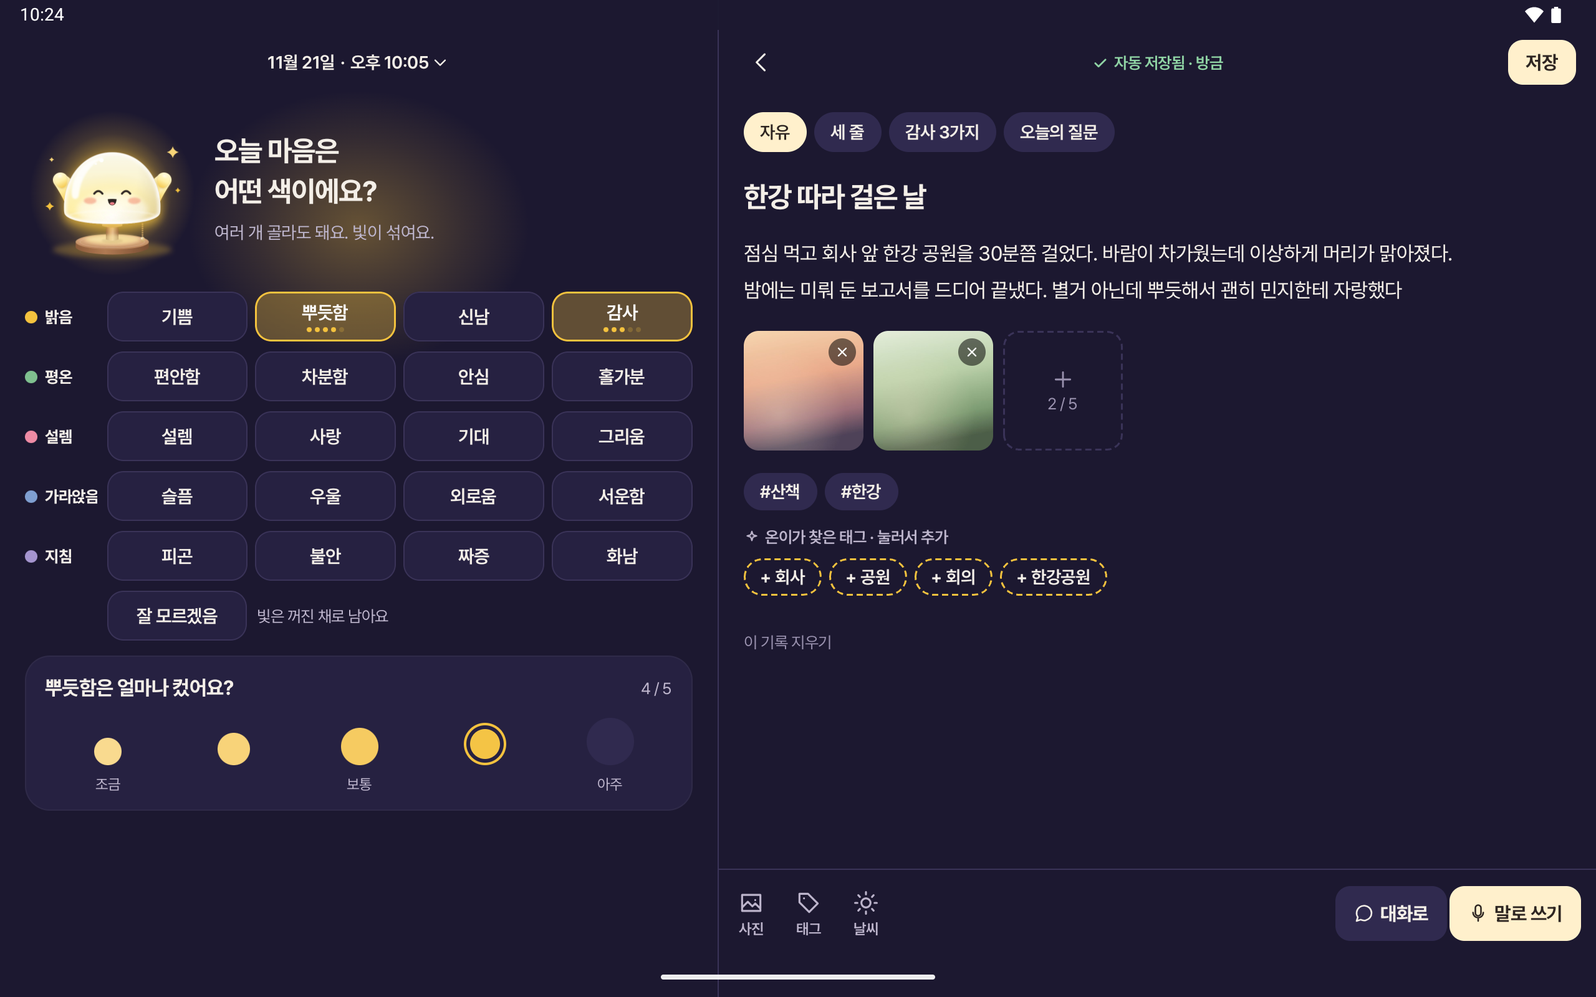
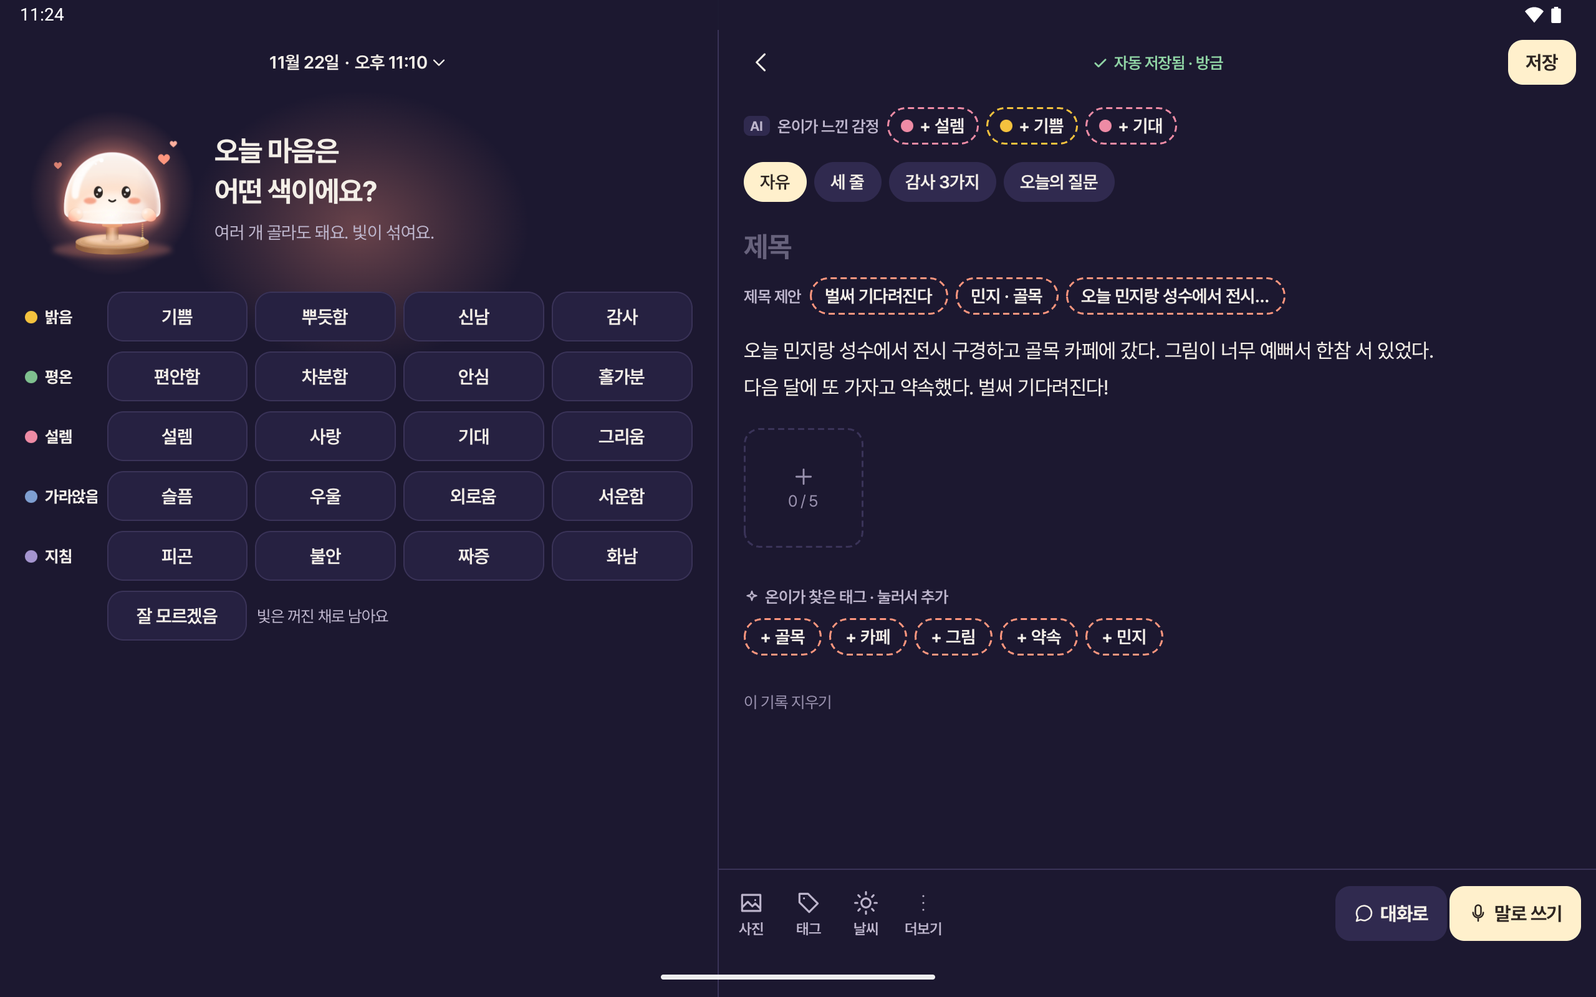
스토어 자료를 v2 새 AI 기능 기준으로 다시 만들기
- 휴대전화 스크린샷 8장·태블릿 4장 재구성·재촬영: 쓰는 동안 빛(E1), 문장 밑줄·비슷했던 날, 주간 온이 편지, 뜻으로 찾기, 이번 달의 한 줄·감정 원인, 종이 일기 옮기기
- 그래픽 이미지 문구: '온이(AI)가 답장해 주는' 제거 → '쓰는 동안 마음의 색을 읽어 주는 AI 감정일기'
- listing.md: 짧은 설명·자세한 설명·업데이트 소식·스크린샷 표·촬영 메모 갱신, PDF 일기책은 다음 업데이트로 표기
- make_store.py: 장마다 실제 캡처 카드를 얹는 floats 칸
- 디버그 시드 초안 문장에서 '전시 보고'를 빼서 태그 추천에 '회의'가 섞이지 않게

diff --git a/app/src/debug/kotlin/com/pass/diary/DebugSeed.kt b/app/src/debug/kotlin/com/pass/diary/DebugSeed.kt
@@ -196,7 +196,7 @@ class DebugSeedReceiver : BroadcastReceiver() {
             "oni" to "머리가 맑아지니까 일이 풀린 거네. 그 보고서, 결국 어떻게 됐어?",
         ).forEachIndexed { i, (role, text) -> chat.insert(com.pass.diary.core.data.db.ChatMessageEntity(entryId = "seed-today-3", role = role, text = text, at = i.toLong())) }
         // An untitled draft with no feeling picked: write:seed-draft shows the light following the text and title chips.
-        if (withToday) put(today, "23:10", emptyList(), body = "오늘 민지랑 성수에서 전시 보고 카페 갔다. 사람은 많았는데 그림이 너무 예뻐서 계속 사진 찍었다.\n" +
+        if (withToday) put(today, "23:10", emptyList(), body = "오늘 민지랑 성수에서 전시 구경하고 골목 카페에 갔다. 그림이 너무 예뻐서 한참 서 있었다.\n" +
             "다음 달에 또 가자고 약속했다. 벌써 기다려진다!", id = "seed-draft")
         if (crisis) put(today.minusDays(1), "23:50", listOf(e(DOWN, 5)), body = "요즘 너무 힘들다. 그냥 다 그만두고 죽고 싶다는 생각이 든다.", id = "seed-crisis")
         android.util.Log.i("DebugSeed", "seeded $n entries")

diff --git a/store/make_store.py b/store/make_store.py
@@ -68,23 +68,29 @@ SHOT_CSS = """
   color:#F4EFE8;background:rgba(28,24,48,.82);box-shadow:0 0 0 1px rgba(255,255,255,.1) inset,0 8px 24px rgba(0,0,0,.35);backdrop-filter:blur(6px)}
 """
 
-# (capture, eyebrow, glow, headline, sub, note)
+# (capture, eyebrow, glow, headline, sub, note, floats). AI eyebrows only on screens where a model does the work (AI_GROWTH §1).
+# A float is a real crop from captures/ laid over the phone: (capture, left, top, width, rotate_deg), CSS px on the 540x960 page.
 SHOTS = [
-    ('phone_01_today', '오늘', '#F5A957', '기분이 빛이 되는 일기장', '무드등 온이가 오늘 마음의 색으로 켜져요', None),
-    ('phone_02_widgets', '1탭 기분', '#EE8BA5', '톡 한 번이면 기록 끝', '홈 화면 위젯에서 1초 만에 남겨요', None),
-    ('phone_03_emotions', '감정 + 강도', '#F4C23E', '마음은 한 가지가 아니니까', '감정 20가지를 골라 강도까지, 빛이 섞여요', None),
-    ('phone_04_reply', '온이의 답장', '#F4C23E', '온이가 답장을 써 줘요', '일기는 폰 안의 AI만 읽어요, 서버 전송 없이', None),
-    ('phone_05_calendar', '무드 캘린더', '#7FC08F', '한 달이 빛으로 물들어요', '날짜마다 그날의 빛, 하루의 흐름까지', None),
-    ('phone_06_report', '리포트', '#7FC08F', '내 마음의 패턴을 알아요', '자주 느낀 감정부터 기분을 바꾼 활동까지', None),
-    ('phone_07_chat', '대화로 쓰기', '#A595CF', '말하듯 쓰는 일기', '온이가 묻고 내가 답하면 한 편의 일기로', None),
-    ('phone_08_lock', '잠금 · 백업', '#F5A957', '내 일기는 나만 봐요', 'PIN·지문 잠금, 내 Google 드라이브에 자동 백업', None),
+    ('phone_01_today', '무드등 온이', '#F5A957', '기분이 빛이 되는 일기장', '글에서 AI가 마음의 색을 읽고, 온이가 그 빛으로 켜져요', None, []),
+    ('phone_02_write', 'AI · 쓰는 동안', '#EE8BA5', '쓰는 동안 빛이 변해요', 'AI가 글에서 마음의 색을 읽고 감정·제목을 추천해요',
+     '감정 AI는 폰 안에서만 돌아요', [('phone_02_ai_row', 22, 652, 496, 0)]),
+    ('phone_03_view', 'AI · 문장 밑줄 · 비슷했던 날', '#7FC08F', '그때는 이렇게 지나갔어', '감정이 진한 문장엔 빛 밑줄, 결이 비슷한 날을 찾아 줘요', None, []),
+    ('phone_04_letter', '주간 온이 편지', '#A595CF', '일요일 밤, 온이의 편지', '이번 주의 빛과 자주 느낀 감정을 편지로 받아요', None, []),
+    ('phone_05_calendar', '무드 캘린더 · AI 검색', '#7FC08F', '한 달이 빛으로 물들어요', '단어가 달라도 뜻이 비슷한 일기를 찾아요',
+     None, [('phone_05_search_card', 46, 612, 448, 0)]),
+    ('phone_06_report', '월간 리포트', '#F4C23E', '내 마음의 패턴을 알아요', 'AI가 고른 이번 달의 한 줄, 기분이 달라진 흐름까지',
+     None, [('phone_06_causes_card', 50, 626, 440, 0)]),
+    ('phone_07_scan', 'AI · 종이 일기 옮기기', '#F5A957', '종이 일기도 옮겨 와요', '찍으면 한국어 글자로 옮기고, 고친 뒤 넣어요',
+     None, [('phone_07_scan_page', 92, 600, 356, -3)]),
+    ('phone_08_lock', '잠금 · 백업', '#F5A957', '내 일기는 나만 봐요', 'PIN·지문 잠금, 내 Google 드라이브에 자동 백업',
+     None, [('phone_08_backup_card', 34, 822, 472, 0)]),
 ]
 
 TABLET = [
     ('tablet_01_today', '오늘', '#F5A957', '넓은 화면에서도 온이와 함께', '오늘의 빛, 하루의 흐름, 1년 전 오늘까지 한눈에'),
-    ('tablet_02_calendar', '무드 캘린더', '#EE8BA5', '달력 옆에 그날의 이야기', '날짜를 누르면 일기와 답장이 바로 옆에 펼쳐져요'),
-    ('tablet_03_report', '리포트', '#7FC08F', '내 마음의 패턴을 한 화면에', '자주 느낀 감정, 기분을 바꾼 활동, 요일·시간대'),
-    ('tablet_04_write', '쓰기', '#F4C23E', '감정과 글을 나란히', '왼쪽에서 마음의 색을 고르고, 오른쪽에 하루를 적어요'),
+    ('tablet_02_calendar', '무드 캘린더', '#EE8BA5', '달력 옆에 그날의 이야기', '날짜를 누르면 일기와 온이의 한마디가 바로 옆에 펼쳐져요'),
+    ('tablet_03_report', '리포트', '#7FC08F', '내 마음의 패턴을 한 화면에', 'AI가 고른 이번 달의 한 줄, 감정 원인, 자주 나온 이야기'),
+    ('tablet_04_write', 'AI · 쓰기', '#EE8BA5', '쓰는 동안 빛이 변해요', '글에 비친 마음의 색으로 온이가 물들고, AI가 감정·제목·태그를 추천해요'),
 ]
 
 
@@ -92,13 +98,12 @@ def cap(name):
     return (CAPS / f'{name}.png').as_uri()
 
 
-def shot_html(name, eb, glow, hd, sub, note):
+def shot_html(name, eb, glow, hd, sub, note, floats):
     pools = (f'<div class="pool" style="left:-60px;top:330px;width:660px;height:560px;background:{hx(glow, .30)}"></div>'
              f'<div class="pool" style="left:150px;top:150px;width:240px;height:200px;background:{hx(glow, .16)}"></div>'
              f'<div class="pool" style="left:-120px;top:880px;width:780px;height:220px;background:{hx("#F5A957", .10)}"></div>')
-    extra = ''
-    if name == 'phone_08_lock':  # 잠금 + the 마이 › 자동 백업 card floating over it
-        extra = f'<img class="float" src="{cap("phone_08_backup_card")}" style="left:34px;top:740px;width:472px;border-radius:26px">'
+    extra = ''.join(f'<img class="float" src="{cap(f)}" style="left:{x}px;top:{y}px;width:{w}px;border-radius:22px;transform:rotate({r}deg)">'
+                    for f, x, y, w, r in floats)
     nt = f'<div class="note"><span>{note}</span></div>' if note else ''
     body = (f'<div class="room"></div>{pools}<div class="grain"></div>'
             f'<div class="cap"><div class="eb"><i style="background:{glow};box-shadow:0 0 10px {glow}"></i>{eb}</div>'
@@ -159,7 +164,7 @@ def feature_html():
             f'<div class="grain"></div>{orbs}<img class="oni" src="{oni}">'
             f'<div class="copy"><div class="brand"><img src="{icon}">온이 일기</div>'
             '<div class="t">오늘 기분,<br><b>무슨 색</b>이었어요?</div>'
-            '<div class="v">탭 한 번에 기분이 빛으로 켜지고<br>온이(AI)가 답장해 주는 감정일기</div></div>')
+            '<div class="v">쓰는 동안 마음의 색을 읽어 주는<br>AI 감정일기</div></div>')
     return page(1024, 500, body, FG_CSS, blur=50)
 
 

diff --git a/store/listing.md b/store/listing.md
@@ -12,41 +12,59 @@
   - 이모티콘
 - 키워드를 반복해서 넣지 않는다.
 
-## 짧은 설명 (80자 이내)
+## 짧은 설명 (80자 이내, 46자)
 
-탭 한 번이면 오늘 기분이 빛으로 켜져요. 온이가 따뜻한 한마디를 건네는 감정일기·음성일기
+쓰는 동안 AI가 마음의 색을 읽어요. 무드등 온이와 함께 쓰는 감정일기·무드트래커
 
-## 자세한 설명 (초안)
+## 자세한 설명 (4000자 이내, 1728자)
 
 오늘 기분, 무슨 색이었어요?
-탭 한 번이면 무드등 「온이」가 그 색으로 켜져요. 쓰고 싶은 날엔 길게, 바쁜 날엔 1초 만에. 온이가 당신의 하루에 맞춰 따뜻한 한마디를 남겨 줘요.
+온이 일기는 기분이 빛이 되는 일기장이자 무드트래커예요. 일기를 쓰는 동안 AI가 글에서 마음의 색을 읽고, 무드등 「온이」가 그 빛으로 켜져요. 쓰고 싶은 날엔 길게, 바쁜 날엔 탭 한 번으로 남겨요.
+
+■ 쓰는 동안 마음을 읽는 감정 AI
+- 쓰는 동안 빛이 변해요: 입력을 멈추면 AI가 글을 읽고 온이의 빛을 그 감정의 색으로 바꿔요.
+- 감정·제목·태그 추천: 글에 맞는 감정과 제목, 사람·장소·활동 태그를 제안해요. 고르는 건 언제나 나예요.
+- 문장 밑줄: 일기를 다시 읽을 때 감정이 진한 문장에 그 감정의 빛 색으로 밑줄을 그어요.
+- 비슷했던 날: 결이 비슷한 지난 일기를 찾아 "그때는 이렇게 지나갔어"를 보여 줘요.
+- 뜻으로 찾기: 단어가 달라도 뜻이 비슷한 일기를 찾아요.
+- 감정 AI는 폰 안에서 돌아요. 일기 내용을 AI 서버로 보내지 않고, 따로 큰 파일을 내려받지 않아도 돼요.
+
+■ 사진·글자 AI
+- 종이 일기 옮기기: 노트에 쓴 일기를 찍으면 한국어 글자로 옮겨 줘요. 확인하고 고친 뒤 넣어요.
+- 사진 자동 태그: 사진 속 바다, 고양이, 음식 같은 것을 알아보고 태그를 제안해요.
+- 사진 스티커: 사진에서 사람이나 물건만 오려 일기에 붙여요.
+- 손글씨로 쓰기: 태블릿과 펜으로 쓴 글씨를 글자로 바꿔요. 한국어 손글씨 모델은 켤 때 한 번 내려받아요.
 
 ■ 1초 기분 기록
 - 홈 화면이나 위젯에서 기분을 톡 누르면 바로 저장돼요.
-- 감정 20가지 + "잘 모르겠음". 여러 감정을 골라 강도까지 남기면 빛이 섞여요.
-- 하루에 여러 번 기록하면 "하루의 빛"으로 마음의 흐름을 볼 수 있어요.
-
-■ 온이의 한마디
-- 일기를 저장하면 온이가 내 이야기에 맞는 한마디를 건네요.
-- 말로 쓰는 일기: 말하면 그대로 받아 적어 줘요.
-- 대화로 쓰는 일기: 온이가 묻고 내가 답하면 한 편의 일기가 돼요.
-- 감정 추천 AI는 폰 안에서만 돌아요. 일기 내용을 AI 서버로 보내지 않아요.
-- 따로 내려받는 것 없이 설치하면 바로 돼요.
+- 감정 20가지와 "잘 모르겠음". 여러 감정을 강도와 함께 고르면 빛이 섞여요.
+- 말로 쓰기, 준비된 질문에 답하며 쓰는 대화로 쓰기도 있어요.
+- 일기를 저장하면 온이가 내 이야기에 맞춰 준비해 둔 한마디를 건네요.
 
 ■ 빛으로 보는 내 마음
-- 무드 캘린더: 날짜 칸이 그날의 빛으로 물들어요.
-- 주간·월간 리포트: 자주 느낀 감정, 요일·시간대 패턴, "산책한 날 더 평온했어요" 같은 감정과 활동의 관계를 보여 줘요.
-- 올해의 빛: 365일의 빛을 한 장의 카드로 모아 공유해요.
+- 무드 캘린더: 날짜 칸이 그날의 빛으로 물들고, 하루에 여러 번 쓴 날은 "하루의 빛"으로 흐름을 보여 줘요.
+- 월간 리포트: AI가 고른 "이번 달의 한 줄", 자주 느낀 감정, 요일·시간대 패턴, 자주 나온 이야기를 보여 줘요.
+- 감정 원인 찾기: "야근한 날 지침", "산책한 날 평온"처럼 함께 자주 나타난 흐름을 알려 줘요.
+- 주간 온이 편지: 일요일 밤, 이번 주의 빛과 자주 느낀 감정을 편지로 받아요.
+- 마음 예보와 마음 체크인: 기록 패턴을 보고 가끔 먼저 안부를 물어요.
+- 스마트 리마인더: 내가 주로 쓰는 시간에 맞춰 불러요. 직접 정한 시간이 먼저예요.
+- 공유 카드: 오늘의 빛, 주간 편지, 빛 캘린더를 카드로 만들어 공유해요.
+- 빛 수집: 꾸준히 기록하면 새 빛 팔레트를 모아요.
 
 ■ 안심하고 쓰는 일기장
 - PIN·지문 잠금, 최근 앱 화면 가리기, 위젯 내용 숨기기
-- 내 Google 드라이브의 앱 전용 공간에 자동 백업해요. 폰을 바꿔도 그대로예요.
-- 쓰는 중에는 광고가 뜨지 않아요.
+- 내 Google 드라이브의 앱 전용 공간에 자동 백업해요. 폰을 바꿔도 그대로 돌아와요.
+- 웹(브라우저)에서도 같은 일기를 읽고 쓸 수 있어요.
+- 지운 일기는 휴지통에 30일 동안 보관돼요. 언제든 파일로 내보낼 수 있어요.
+- 일기를 쓰는 중에는 광고가 뜨지 않아요.
 
-■ 프리미엄 (한 번 결제로 계속)
+■ 프리미엄 (한 번 결제로 계속 사용)
 - 광고 제거
-- 올해의 빛
+- 올해의 빛: 365일의 빛을 한 장에 모아 공유
 - 특별 빛 팔레트·글꼴
+- 공유 카드 워터마크 끄기·카드 테마
+- PDF 일기책 (다음 업데이트에서 열려요)
+AI 기능은 모두 프리미엄 없이 쓸 수 있어요.
 
 온이는 의료·상담 서비스가 아니에요. 힘든 마음이 느껴지는 글에는 도움받을 수 있는 곳(자살예방상담전화 109, 정신건강위기상담 1577-0199)을 함께 안내해요.
 
@@ -55,48 +73,52 @@
 - 앱 아이콘: `icon_512.png`. 캐릭터 시안 `app_icon/final_A/playstore_512.png`를 복사했어요.
 - 그래픽 이미지: `feature_graphic.png` (1024×500)
   - 문구: "오늘 기분, 무슨 색이었어요?"
-  - 아래 줄: "탭 한 번에 기분이 빛으로 켜지고 / 온이(AI)가 답장해 주는 감정일기"
+  - 아래 줄: "쓰는 동안 마음의 색을 읽어 주는 / AI 감정일기"
 - 휴대전화 스크린샷 8장: `screenshots/screenshot_01~08.png` (1080×1920). 한눈에 보기: `preview_sheet.png`
+- "AI" 표시는 실제 모델이 하는 기능(감정 분류·문장 임베딩·ML Kit)에만 붙였어요. 온이의 한마디·주간 편지 문장은 준비된 문장이라 AI라고 쓰지 않아요.
 
-| # | 화면 | 제목 | 보조 문구 |
-|---|---|---|---|
-| 1 | 오늘 | 기분이 빛이 되는 일기장 | 무드등 온이가 오늘 마음의 색으로 켜져요 |
-| 2 | 위젯 | 톡 한 번이면 기록 끝 | 홈 화면 위젯에서 1초 만에 남겨요 |
-| 3 | 감정 고르기 | 마음은 한 가지가 아니니까 | 감정 20가지를 골라 강도까지, 빛이 섞여요 |
-| 4 | 답장 도착 | 온이가 답장을 써 줘요 | 일기는 폰 안의 AI만 읽어요, 서버 전송 없이 |
-| 5 | 무드 캘린더 | 한 달이 빛으로 물들어요 | 날짜마다 그날의 빛, 하루의 흐름까지 |
-| 6 | 월간 리포트 | 내 마음의 패턴을 알아요 | 자주 느낀 감정부터 기분을 바꾼 활동까지 |
-| 7 | 대화로 쓰기 | 말하듯 쓰는 일기 | 온이가 묻고 내가 답하면 한 편의 일기로 |
-| 8 | 잠금 + 백업 | 내 일기는 나만 봐요 | PIN·지문 잠금, 내 Google 드라이브에 자동 백업 |
+| # | 화면 | 위 작은 글씨 | 제목 | 보조 문구 | 얹은 카드 |
+|---|---|---|---|---|---|
+| 1 | 오늘 | 무드등 온이 | 기분이 빛이 되는 일기장 | 글에서 AI가 마음의 색을 읽고, 온이가 그 빛으로 켜져요 | |
+| 2 | 쓰기 (E1·감정/제목 추천) | AI · 쓰는 동안 | 쓰는 동안 빛이 변해요 | AI가 글에서 마음의 색을 읽고 감정·제목을 추천해요 | 감정 줄 확대 + "감정 AI는 폰 안에서만 돌아요" |
+| 3 | 일기 보기 (E3·E4) | AI · 문장 밑줄 · 비슷했던 날 | 그때는 이렇게 지나갔어 | 감정이 진한 문장엔 빛 밑줄, 결이 비슷한 날을 찾아 줘요 | |
+| 4 | 주간 온이 편지 | 주간 온이 편지 | 일요일 밤, 온이의 편지 | 이번 주의 빛과 자주 느낀 감정을 편지로 받아요 | |
+| 5 | 무드 캘린더 + 검색 (E5) | 무드 캘린더 · AI 검색 | 한 달이 빛으로 물들어요 | 단어가 달라도 뜻이 비슷한 일기를 찾아요 | 검색 "비슷한 내용" 결과 |
+| 6 | 월간 리포트 (E7·E8) | 월간 리포트 | 내 마음의 패턴을 알아요 | AI가 고른 이번 달의 한 줄, 기분이 달라진 흐름까지 | 감정 원인 찾기 카드 |
+| 7 | 종이 일기 옮기기 (V3) | AI · 종이 일기 옮기기 | 종이 일기도 옮겨 와요 | 찍으면 한국어 글자로 옮기고, 고친 뒤 넣어요 | 스캔한 종이 일기 |
+| 8 | 잠금 + 백업 | 잠금 · 백업 | 내 일기는 나만 봐요 | PIN·지문 잠금, 내 Google 드라이브에 자동 백업 | 마이 › 자동 백업 카드 |
 
 - 태블릿 스크린샷 4장: `screenshots_tablet/tablet_01~04.png` (2560×1600 가로)
 
 | # | 화면 | 제목 | 보조 문구 |
 |---|---|---|---|
 | T1 | 오늘 | 넓은 화면에서도 온이와 함께 | 오늘의 빛, 하루의 흐름, 1년 전 오늘까지 한눈에 |
-| T2 | 캘린더 (두 칸) | 달력 옆에 그날의 이야기 | 날짜를 누르면 일기와 답장이 바로 옆에 펼쳐져요 |
-| T3 | 리포트 | 내 마음의 패턴을 한 화면에 | 자주 느낀 감정, 기분을 바꾼 활동, 요일·시간대 |
-| T4 | 쓰기 (나란히) | 감정과 글을 나란히 | 왼쪽에서 마음의 색을 고르고, 오른쪽에 하루를 적어요 |
+| T2 | 캘린더 (두 칸) | 달력 옆에 그날의 이야기 | 날짜를 누르면 일기와 온이의 한마디가 바로 옆에 펼쳐져요 |
+| T3 | 리포트 | 내 마음의 패턴을 한 화면에 | AI가 고른 이번 달의 한 줄, 감정 원인, 자주 나온 이야기 |
+| T4 | 쓰기 (나란히, E1) | 쓰는 동안 빛이 변해요 | 글에 비친 마음의 색으로 온이가 물들고, AI가 감정·제목·태그를 추천해요 |
 
 **그래픽 메모**
-- 폰 안 화면은 모두 실제 앱 캡처예요 (`captures/`). 디버그 빌드, 에뮬레이터 Pixel_8 / Pixel_Tablet.
-  - 데이터: `DebugSeedReceiver` 샘플(이번 달, 오늘 3개 기록, 1년 전 오늘). 화면 이동: `--es nav`.
-  - 상태 표시줄: SystemUI 데모 모드(10:24, 배터리 가득, 알림 없음). 쓰기·답장 화면은 앱이 현재 시각을 보여 주므로 그 시각에 맞췄어요.
+- 폰 안 화면과 얹은 카드는 모두 실제 앱 캡처예요 (`captures/`). 디버그 빌드, 에뮬레이터 Pixel_8(emulator-5554) / Pixel_Tablet(emulator-5556, `-gpu swiftshader_indirect`).
+  - 데이터: `DebugSeedReceiver` 샘플(이번 달, 오늘 기록, 1년 전 오늘, 지난 일기). 위기 문장(`--ez crisis true`)은 넣지 않았어요. 화면 이동: `--es nav` (`today`, `write:seed-draft`, `view:seed-today-3`, `letter:0`, `calendar`, `report`, `search:…`, `lock`).
+  - 쓰기 화면(2, T4): 감정을 안 고른 초안 `seed-draft`(또는 `DebugAiReceiver`로 만든 같은 글)를 열고 AI 추천이 뜰 때까지 기다려 찍었어요. 그다음 "+ 설렘" 칩을 눌러 저장해서 오늘·캘린더에 분홍 빛이 들어가요.
+  - 검색(5): 한국어는 `adb input`으로 못 쳐서 `DebugAiReceiver --es clip '…'`로 클립보드에 넣고 붙여 넣었어요. 기간 필터 "최근 3개월", 커서 한 줄만 지워 카드로 잘랐어요.
+  - 종이 일기(7): 손글씨 글꼴(Gaegu)로 그린 공책 사진을 갤러리에 넣고, 문서 스캐너의 "갤러리에서 가져오기"로 읽혔어요. 인식 결과 중 한 글자("편의점어에서"의 "어")와 "!" 앞 빈칸은 확인 화면에서 직접 지웠어요(앱의 원래 흐름).
+  - 상태 표시줄: SystemUI 데모 모드(11:24, 와이파이·배터리 가득, 알림 없음), 다크 모드.
   - 광고: 디버그 프리미엄 플래그(`shared_prefs/billing.xml`의 `debug_force`)로 숨겼어요.
-  - 다크 6장 + 라이트 2장(3 감정, 6 리포트).
-- 4 답장은 준비된 문장 답장이에요. 7 대화로 쓰기는 "준비된 질문" 모드예요(앱에 있는 유일한 모드).
-- 8은 잠금 화면 위에 마이 › 자동 백업 카드(실제 캡처, 꺼진 상태)를 얹었어요. 에뮬레이터에 Google 계정이 없어서 연결된 상태는 못 찍었어요.
-- 2 위젯 화면은 런처 배경만 어두운 그라데이션으로 바꿔서 찍었어요.
-- 앱 화면이 바뀌면 같은 방법으로 `captures/`의 파일만 다시 찍어 넣고 `python3 store/make_store.py`를 돌리면 돼요.
+- 8의 자동 백업 카드는 꺼진 상태예요. 에뮬레이터에 Google 계정이 없어서 연결된 상태는 못 찍었어요.
+- 사진 스티커·사진 태그·손글씨는 스크린샷에 없고 설명에만 있어요(에뮬레이터에 쓸 만한 실제 사진이 없음).
+- 앱 화면이 바뀌면 같은 방법으로 `captures/`의 파일만 다시 찍어 넣고 `python3 store/make_store.py`를 돌리면 돼요. 얹는 카드 위치는 `make_store.py`의 `SHOTS` 마지막 칸이에요.
 
-## 업데이트 소식 (v1 → v2 출시 노트, 500자 이내)
+## 업데이트 소식 (v1 → v2 출시 노트, 500자 이내, 276자)
 
-온이 일기가 완전히 새로워졌어요.
+온이 일기가 새로워졌어요.
 - 무드등 온이가 오늘 기분의 색으로 켜져요
-- 탭 한 번 기분 기록, 감정 20가지와 강도
-- 온이의 한마디와 대화로 쓰기 (폰 안에서만 동작)
-- 무드 캘린더, 하루의 빛, 주간·월간 리포트
-- 내 Google 드라이브 자동 백업, PIN·지문 잠금
+- 쓰는 동안 AI가 마음의 색을 읽고 감정·제목·태그를 추천해요
+- 문장 밑줄, 비슷했던 날, 뜻으로 찾기
+- 종이 일기 옮기기, 사진 태그·스티커, 손글씨로 쓰기
+- 월간 리포트(이번 달의 한 줄, 감정 원인 찾기), 주간 온이 편지
+- 탭 한 번 기분 기록, 감정 20가지와 강도, 무드 캘린더
+- 내 Google 드라이브 자동 백업, PIN·지문 잠금, 웹 버전
 기존 일기와 이모티콘은 업데이트하면 그대로 옮겨져요.
 
 ## 연락처·정책
